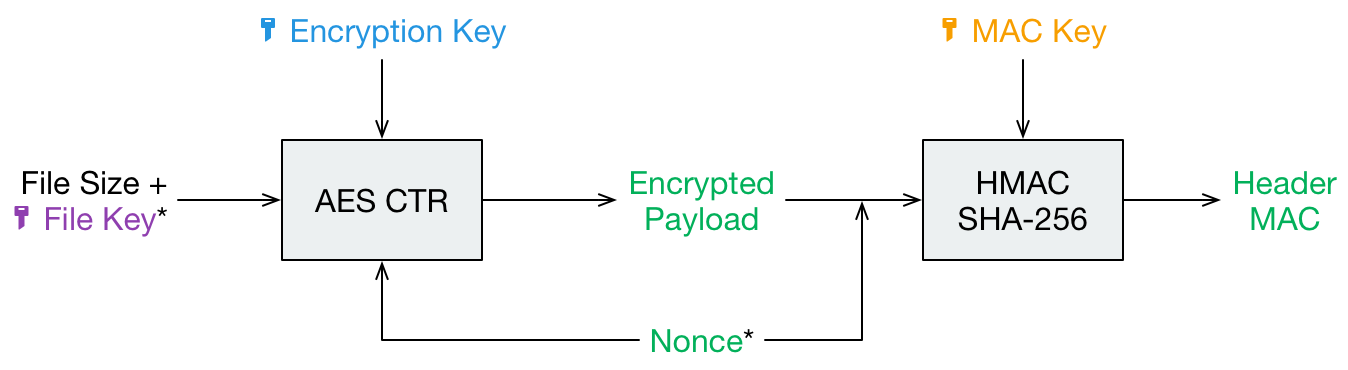
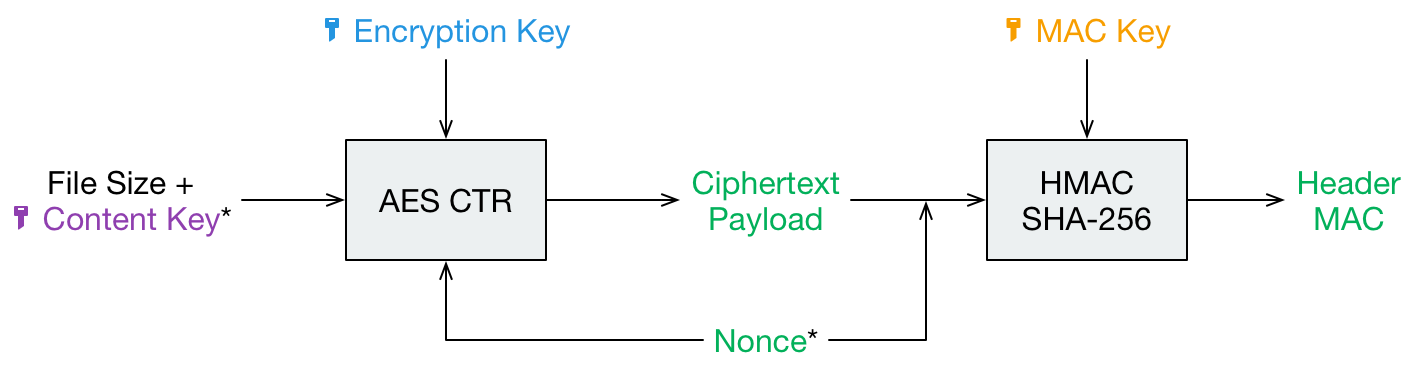
fixed inconsistent names in security architecture

diff --git a/_securityArchitecture/060_de_contentEncryption.md b/_securityArchitecture/060_de_contentEncryption.md
@@ -21,11 +21,11 @@ Nach der Verschlüsselung werden diese Stücke wieder in derselben Reihenfolge z
 cleartextChunks[] := split(paddedCleartext, 32KiB)
 for (int i = 0; i < length(cleartextChunks); i++) {
   chunkNonce := createRandomBytes(16)
-  encryptedPayload := aesCtr(cleartextChunks[i], fileKey, chunkNonce)
-  mac := hmacSha256(headerNonce . bigEndian(i) . chunkNonce . encryptedPayload, macMasterKey)
-  ciphertextChunks[i] := chunkNonce . encryptedPayload . mac
+  ciphertextPayload := aesCtr(cleartextChunks[i], contentKey, chunkNonce)
+  mac := hmacSha256(headerNonce . bigEndian(i) . chunkNonce . ciphertextPayload, macMasterKey)
+  ciphertextChunks[i] := chunkNonce . ciphertextPayload . mac
 }
-encryptedFileContent := join(encryptedChunks[])
+ciphertextFileContent := join(ciphertextChunks[])
 </pre>
 
 <img src="/img/architecture/file-content-encryption.png" srcset="/img/architecture/file-content-encryption.png 1x, /img/architecture/file-content-encryption@2x.png 2x" alt="Verschlüsselung des Dateiinhalts" />

diff --git a/_securityArchitecture/060_en_contentEncryption.md b/_securityArchitecture/060_en_contentEncryption.md
@@ -21,11 +21,11 @@ Afterwards the encrypted chunks are joined preserving the order of the cleartext
 cleartextChunks[] := split(paddedCleartext, 32KiB)
 for (int i = 0; i < length(cleartextChunks); i++) {
   chunkNonce := createRandomBytes(16)
-  encryptedPayload := aesCtr(cleartextChunks[i], fileKey, chunkNonce)
-  mac := hmacSha256(headerNonce . bigEndian(i) . chunkNonce . encryptedPayload, macMasterKey)
-  ciphertextChunks[i] := chunkNonce . encryptedPayload . mac
+  ciphertextPayload := aesCtr(cleartextChunks[i], contentKey, chunkNonce)
+  mac := hmacSha256(headerNonce . bigEndian(i) . chunkNonce . ciphertextPayload, macMasterKey)
+  ciphertextChunks[i] := chunkNonce . ciphertextPayload . mac
 }
-encryptedFileContent := join(encryptedChunks[])
+ciphertextFileContent := join(ciphertextChunks[])
 </pre>
 
 <img src="/img/architecture/file-content-encryption.png" srcset="/img/architecture/file-content-encryption.png 1x, /img/architecture/file-content-encryption@2x.png 2x" alt="File Content Encryption" />

diff --git a/_securityArchitecture/030_de_nameEncryption.md b/_securityArchitecture/030_de_nameEncryption.md
@@ -8,7 +8,7 @@ title: Verschlüsselung des Dateinamens
 Cryptomator nutzt den Modus <a href="http://tools.ietf.org/html/rfc5297" target="_blank">AES-SIV</a>, um Dateien und Verzeichnisnamen zu verschlüsseln. Zusätzlich wird eine eindeutige Verzeichnis-ID des übergeordneten Verzeichnisses als Zusatzdaten übergeben. Dies verhindert das Verschieben von verschlüsselten Dateien in andere Verzeichnisse.
 
 <pre>
-cipheredName := base32(aesSiv(cleartextName, parentDirId, encryptionMasterKey, macMasterKey))
+ciphertextName := base32(aesSiv(cleartextName, parentDirId, encryptionMasterKey, macMasterKey))
 </pre>
 
 Bei Dateien ist das Ergebnis der verschlüsselte Name.

diff --git a/_securityArchitecture/030_en_nameEncryption.md b/_securityArchitecture/030_en_nameEncryption.md
@@ -8,7 +8,7 @@ title: Filename Encryption
 Cryptomator uses <a href="http://tools.ietf.org/html/rfc5297" target="_blank">AES-SIV</a> to encrypt file as well as directory names. Additionally to the name, a unique directory ID of its parent directory is passed as associated data.
 
 <pre>
-cipheredName := base32(aesSiv(cleartextName, parentDirId, encryptionMasterKey, macMasterKey))
+ciphertextName := base32(aesSiv(cleartextName, parentDirId, encryptionMasterKey, macMasterKey))
 </pre>
 
 If it&apos;s a filename, we&apos;re done!
